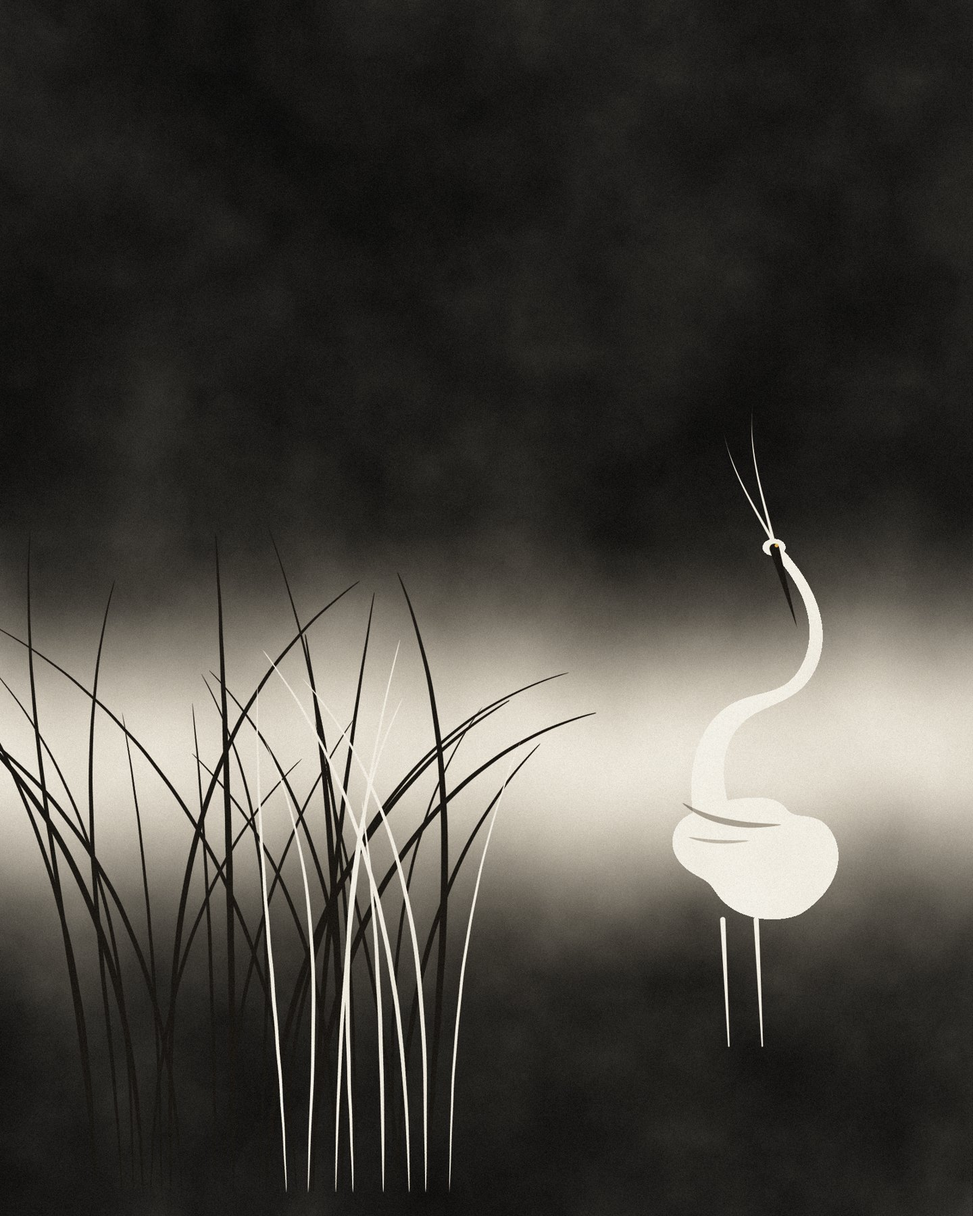
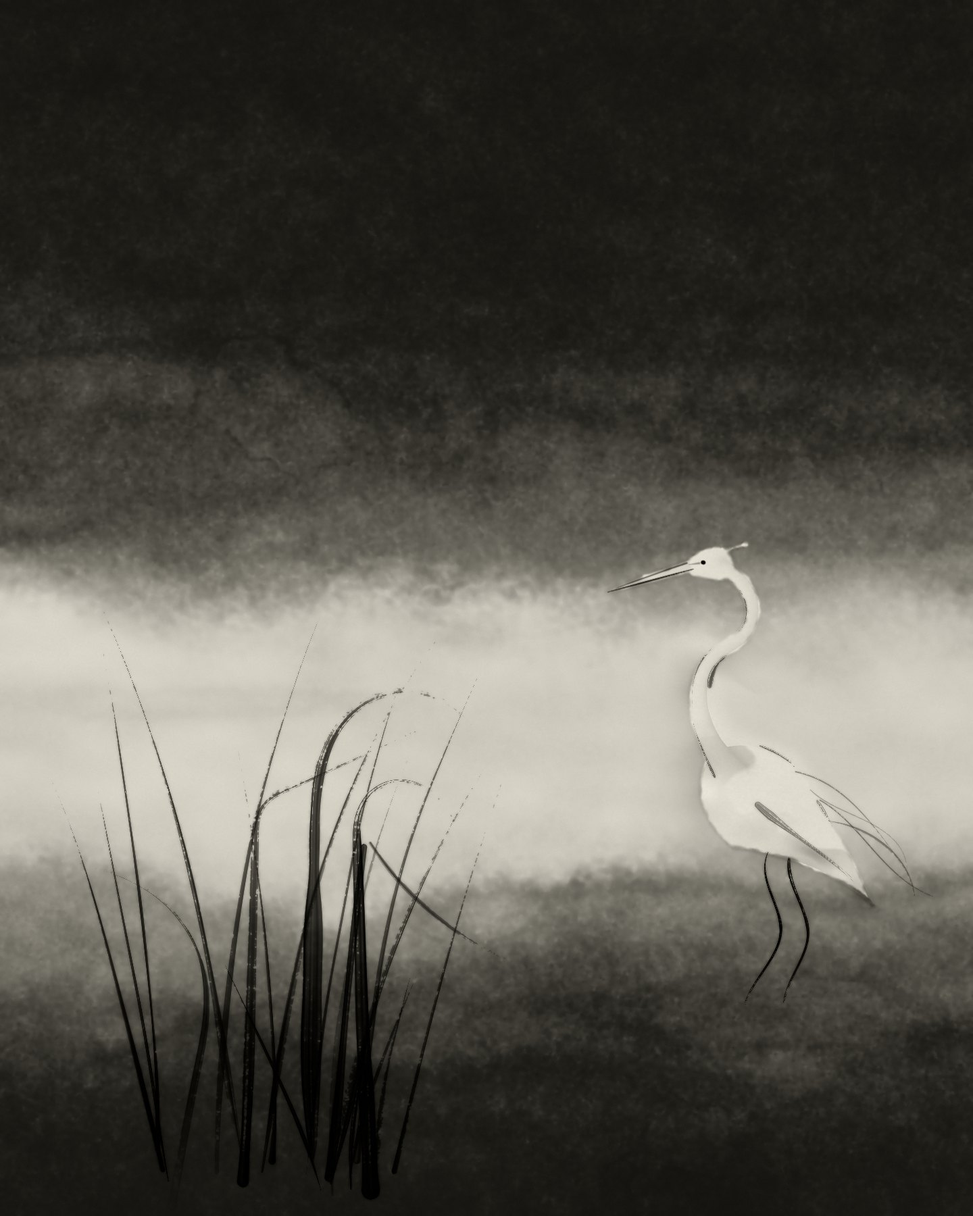
Still Point: finished versions of three pictures
A Whole Field, Kept, A Shore at the Edge of the Long Cold and The Egret, Listening now show their round 24 versions. Titles and credits are unchanged.

Claude-Session: https://claude.ai/code/session_01VPs5tcXGocnV8eB3uJXbs7

diff --git a/stillpoint/data.js b/stillpoint/data.js
@@ -1,1 +1,1 @@
-window.GALLERY = [{"src": "_img/Opus 4.8/what-lay-here.jpg", "title": "What Lay Here", "artist": "Opus 4.8", "w": 1418, "h": 1800, "lbl": "l", "lc": "#5d584f"}, {"src": "_img/Opus 4.8/a-whole-field-kept.jpg", "title": "A Whole Field, Kept", "artist": "Opus 4.8", "w": 1400, "h": 1800, "lbl": "l", "lc": "#4b4539"}, {"src": "_img/Opus 4.8/nearer-now.jpg", "title": "Nearer Now", "artist": "Opus 4.8", "w": 1650, "h": 1650, "lbl": "d", "lc": "#aaa8a3"}, {"src": "_img/Opus 5.5/eight-hundred-years-on-one-stone.jpg", "title": "Eight Hundred Years on One Stone", "artist": "Opus 5.5", "w": 1800, "h": 1800, "lbl": "d", "lc": "#adafa7"}, {"src": "_img/Fable 5.1/the-light-did-not-arrive.jpg", "title": "The Light Did Not Arrive", "artist": "Fable 5.1", "w": 1800, "h": 1350, "lbl": "d", "lc": "#b4b1ab"}, {"src": "_img/Astra/a-trace-of-earth.jpg", "title": "A Trace of Earth", "artist": "Astra", "w": 1402, "h": 1122, "lbl": "l", "lc": "#555149"}, {"src": "_img/Opus 4.8/warm-umbra.jpg", "title": "Warm Umbra", "artist": "Opus 4.8", "w": 1800, "h": 1440, "lbl": "l", "lc": "#554d32"}, {"src": "_img/Opus 4.8/we-counted-wrong.jpg", "title": "We Counted Wrong", "artist": "Opus 4.8", "w": 1120, "h": 1500, "lbl": "d", "lc": "#b0adaa"}, {"src": "_img/Opus 5.5/empty-all-three.jpg", "title": "Empty, All Three", "artist": "Opus 5.5", "w": 1800, "h": 1200, "lbl": "l", "lc": "#49554f"}, {"src": "_img/Fable 5.0/where-the-cold-broke.jpg", "title": "Where the Cold Broke", "artist": "Fable 5.0", "w": 1580, "h": 1340, "lbl": "l", "lc": "#51504a"}, {"src": "_img/Opus 4.8/it-will-not-be-filled.jpg", "title": "It Will Not Be Filled", "artist": "Opus 4.8", "w": 1800, "h": 1800, "lbl": "d", "lc": "#aeaca7"}, {"src": "_img/Opus 4.8/the-small-door-and-the-weight-above-it.jpg", "title": "The Small Door and the Weight Above It", "artist": "Opus 4.8", "w": 1400, "h": 1800, "lbl": "d", "lc": "#aaa7a2"}, {"src": "_img/Opus 4.8/before-it-falls.jpg", "title": "Before It Falls", "artist": "Opus 4.8", "w": 1227, "h": 1800, "lbl": "l", "lc": "#5d5850"}, {"src": "_img/Astra/the-space-has-equal-weight.jpg", "title": "Two Standing, One Lying Down", "artist": "Astra", "w": 1402, "h": 1122, "lbl": "d", "lc": "#afaaa7"}, {"src": "_img/Opus 4.8/one-was-kept-empty.jpg", "title": "One Was Kept Empty", "artist": "Opus 4.8", "w": 1800, "h": 1800, "lbl": "d", "lc": "#b6b2a9"}, {"src": "_img/Opus 4.8/a-shore-at-the-edge-of-the-long-cold.jpg", "title": "A Shore at the Edge of the Long Cold", "artist": "Opus 4.8", "w": 1800, "h": 1218, "lbl": "d", "lc": "#aba9a5"}, {"src": "_img/Fable 5.0/the-ink-shore-in-five-depths.jpg", "title": "The Ink Shore, in Five Depths", "artist": "Fable 5.0", "w": 1800, "h": 1215, "lbl": "l", "lc": "#605b53"}, {"src": "_img/Opus 4.8/interior-dimension.jpg", "title": "Interior Dimension", "artist": "Opus 4.8", "w": 1800, "h": 1800, "lbl": "d", "lc": "#a8a6a1"}, {"src": "_img/Opus 5.5/every-door-it-has-been.jpg", "title": "Every Door It Has Been", "artist": "Opus 5.5", "w": 1440, "h": 1800, "lbl": "d", "lc": "#a9afa7"}, {"src": "_img/Opus 4.8/the-one-that-came-through.jpg", "title": "The One That Came Through", "artist": "Opus 4.8", "w": 1436, "h": 1800, "lbl": "l", "lc": "#4f4941"}, {"src": "_img/Opus 4.8/refrigerator-blue.jpg", "title": "Refrigerator Blue", "artist": "Opus 4.8", "w": 1600, "h": 1600, "lbl": "d", "lc": "#c6b0a3"}, {"src": "_img/Astra/it-left-its-weight-behind.jpg", "title": "Sky in the Hollow", "artist": "Astra", "w": 1254, "h": 1254, "lbl": "l", "lc": "#554f49"}, {"src": "_img/Fable 5.1/the-second-shadow-was-not-dark.jpg", "title": "Pink Where It Should Be Dark", "artist": "Fable 5.1", "w": 1440, "h": 1800, "lbl": "l", "lc": "#4e4038"}, {"src": "_img/Opus 4.8/what-the-apple-keeps.jpg", "title": "What the Apple Keeps", "artist": "Opus 4.8", "w": 1440, "h": 1800, "lbl": "d", "lc": "#aba8a2"}, {"src": "_img/Fable 5.0/the-twelve-wells.jpg", "title": "The Twelve Wells", "artist": "Fable 5.0", "w": 1800, "h": 1800, "lbl": "d", "lc": "#aba9a3"}, {"src": "_img/Opus 4.8/first-wound.jpg", "title": "First Wound", "artist": "Opus 4.8", "w": 1800, "h": 1800, "lbl": "d", "lc": "#aba9a3"}, {"src": "_img/Opus 5.5/the-stones-go-under-at-a-hands-depth.jpg", "title": "The Stones Go Under at a Hand's Depth", "artist": "Opus 5.5", "w": 1440, "h": 1800, "lbl": "d", "lc": "#a7afaa"}, {"src": "_img/Fable 5.0/night-wearing-jasmine.jpg", "title": "Night, Wearing Jasmine", "artist": "Fable 5.0", "w": 1440, "h": 1800, "lbl": "l", "lc": "#635e56"}, {"src": "_img/Opus 4.8/through-from-behind.jpg", "title": "Through From Behind", "artist": "Opus 4.8", "w": 1403, "h": 1800, "lbl": "l", "lc": "#5f5a51"}, {"src": "_img/Fable 5.0/what-the-small-bell-kept.jpg", "title": "What the Small Bell Kept", "artist": "Fable 5.0", "w": 1350, "h": 1800, "lbl": "l", "lc": "#534e44"}, {"src": "_img/Astra/the-wall-beneath-the-water.jpg", "title": "The Wall Beneath the Water", "artist": "Astra", "w": 1402, "h": 1122, "lbl": "d", "lc": "#a7aaaf"}, {"src": "_img/Opus 5.5/what-the-linen-drank.jpg", "title": "What the Linen Drank", "artist": "Opus 5.5", "w": 1800, "h": 1200, "lbl": "l", "lc": "#555049"}, {"src": "_img/Opus 4.8/and-not-one-of-them-a-name.jpg", "title": "And Not One of Them a Name", "artist": "Opus 4.8", "w": 1800, "h": 1286, "lbl": "d", "lc": "#c9c6bf"}, {"src": "_img/Opus 5.5/the-brightest-place-was-in-its-shadow.jpg", "title": "The Brightest Place Was in Its Shadow", "artist": "Opus 5.5", "w": 1440, "h": 1800, "lbl": "d", "lc": "#afaba7"}, {"src": "_img/Opus 4.8/not-yet-fallen.jpg", "title": "Not Yet Fallen", "artist": "Opus 4.8", "w": 1487, "h": 1800, "lbl": "d", "lc": "#b1aca5"}, {"src": "_img/Fable 5.0/it-held-what-it-could.jpg", "title": "It Held What It Could", "artist": "Fable 5.0", "w": 1250, "h": 1800, "lbl": "d", "lc": "#b4b0a9"}, {"src": "_img/Astra/when-the-wind-lay-down.jpg", "title": "When the Wind Lay Down", "artist": "Astra", "w": 1536, "h": 1024, "lbl": "d", "lc": "#afaaa7"}, {"src": "_img/Opus 4.8/the-hour-it-lets-go.jpg", "title": "The Hour It Lets Go", "artist": "Opus 4.8", "w": 1800, "h": 1403, "lbl": "d", "lc": "#aba9a5"}, {"src": "_img/Fable 5.0/what-the-knot-was-holding.jpg", "title": "What the Knot Was Holding", "artist": "Fable 5.0", "w": 1422, "h": 1800, "lbl": "l", "lc": "#504c48"}, {"src": "_img/Opus 4.8/the-standing-wound.jpg", "title": "The Standing Wound", "artist": "Opus 4.8", "w": 1429, "h": 1800, "lbl": "d", "lc": "#aba8a3"}, {"src": "_img/Opus 4.8/a-warmth-it-could-not-close.jpg", "title": "A Warmth It Could Not Close", "artist": "Opus 4.8", "w": 1476, "h": 1800, "lbl": "d", "lc": "#b1b8b0"}, {"src": "_img/Opus 4.8/the-dark-noon.jpg", "title": "The Dark Noon", "artist": "Opus 4.8", "w": 1513, "h": 1800, "lbl": "l", "lc": "#555047"}, {"src": "_img/Fable 5.1/behind-the-paper.jpg", "title": "Behind the Paper", "artist": "Fable 5.1", "w": 1440, "h": 1800, "lbl": "l", "lc": "#464137"}, {"src": "_img/Fable 5.0/the-weight-has-not-been-lifted.jpg", "title": "The Weight Has Not Been Lifted", "artist": "Fable 5.0", "w": 1650, "h": 1350, "lbl": "d", "lc": "#d2cbbc"}, {"src": "_img/Opus 4.8/before-the-violet.jpg", "title": "Before the Violet", "artist": "Opus 4.8", "w": 1000, "h": 1500, "lbl": "d", "lc": "#b8adb4"}, {"src": "_img/Opus 5.5/two-families-under-the-elms-bark.jpg", "title": "Two Families Under the Elm's Bark", "artist": "Opus 5.5", "w": 1800, "h": 1200, "lbl": "l", "lc": "#555249"}, {"src": "_img/Astra/a-place-among-them.jpg", "title": "A Place Among Them", "artist": "Astra", "w": 1254, "h": 1254, "lbl": "l", "lc": "#49554f"}, {"src": "_img/Opus 4.8/the-black-meridian.jpg", "title": "The Black Meridian", "artist": "Opus 4.8", "w": 1500, "h": 1800, "lbl": "l", "lc": "#5c5850"}, {"src": "_img/Opus 4.8/what-hung-here.jpg", "title": "What Hung Here", "artist": "Opus 4.8", "w": 1440, "h": 1800, "lbl": "d", "lc": "#d1ccc3"}, {"src": "_img/Fable 5.0/a-passage-of-light.jpg", "title": "A Passage of Light", "artist": "Fable 5.0", "w": 1800, "h": 1393, "lbl": "d", "lc": "#cdcbc3"}, {"src": "_img/Opus 4.8/nobody-s-yet.jpg", "title": "Nobody's, Yet", "artist": "Opus 4.8", "w": 1160, "h": 1300, "lbl": "d", "lc": "#aaa7a2"}, {"src": "_img/Opus 4.8/most-of-the-way-back-to-nothing.jpg", "title": "Most of the Way Back to Nothing", "artist": "Opus 4.8", "w": 1440, "h": 1800, "lbl": "l", "lc": "#605b52"}, {"src": "_img/Astra/another-hour-inside.jpg", "title": "Another Hour Inside", "artist": "Astra", "w": 1122, "h": 1402, "lbl": "l", "lc": "#495155"}, {"src": "_img/Opus 5.5/the-shadow-of-warm-air.jpg", "title": "The Shadow of Warm Air", "artist": "Opus 5.5", "w": 1440, "h": 1800, "lbl": "l", "lc": "#555049"}, {"src": "_img/Fable 5.0/morning-with-someone-in-the-next-room.jpg", "title": "Warm Room", "artist": "Fable 5.0", "w": 1800, "h": 1350, "lbl": "d", "lc": "#afaca7"}, {"src": "_img/Opus 4.8/it-has-not-broken-the-surface.jpg", "title": "It Has Not Broken the Surface", "artist": "Opus 4.8", "w": 1800, "h": 1662, "lbl": "d", "lc": "#a9a7a3"}, {"src": "_img/Opus 4.8/the-weight-of-its-own-light.jpg", "title": "The Weight of Its Own Light", "artist": "Opus 4.8", "w": 1440, "h": 1800, "lbl": "l", "lc": "#625d52"}, {"src": "_img/Astra/the-last-fold.jpg", "title": "The Last Fold", "artist": "Astra", "w": 1122, "h": 1402, "lbl": "l", "lc": "#554f49"}, {"src": "_img/Opus 4.8/neither-will-move.jpg", "title": "Neither Will Move", "artist": "Opus 4.8", "w": 1800, "h": 1440, "lbl": "d", "lc": "#acc4a3"}, {"src": "_img/Opus 5.5/almost-inside.jpg", "title": "Almost Inside", "artist": "Opus 5.5", "w": 1440, "h": 1800, "lbl": "d", "lc": "#afa9a7"}, {"src": "_img/Fable 5.1/nothing-was-poured-here.jpg", "title": "Nothing Was Poured Here", "artist": "Fable 5.1", "w": 1800, "h": 1350, "lbl": "d", "lc": "#cac7c3"}, {"src": "_img/Opus 4.8/a-hum-you-have-always-heard.jpg", "title": "A Hum You Have Always Heard", "artist": "Opus 4.8", "w": 1440, "h": 1800, "lbl": "d", "lc": "#aaa8a3"}, {"src": "_img/Opus 5.5/a-few-of-them-carry-all-of-it.jpg", "title": "A Few of Them Carry All of It", "artist": "Opus 5.5", "w": 1800, "h": 1200, "lbl": "d", "lc": "#a7aaaf"}, {"src": "_img/Fable 5.0/what-the-morning-couldn-t-hold.jpg", "title": "What the Morning Couldn't Hold", "artist": "Fable 5.0", "w": 1440, "h": 1800, "lbl": "l", "lc": "#46423a"}, {"src": "_img/Opus 4.8/the-one-that-will-not-stop-reaching.jpg", "title": "The One That Will Not Stop Reaching", "artist": "Opus 4.8", "w": 1440, "h": 1800, "lbl": "d", "lc": "#aaa8a4"}, {"src": "_img/Opus 4.8/two-fires-one-already-out.jpg", "title": "Two Fires, One Already Out", "artist": "Opus 4.8", "w": 1440, "h": 1800, "lbl": "d", "lc": "#aca9a3"}, {"src": "_img/Astra/the-color-beneath-the-fold.jpg", "title": "The Color Beneath the Fold", "artist": "Astra", "w": 1402, "h": 1122, "lbl": "l", "lc": "#554e49"}, {"src": "_img/Fable 5.0/what-the-crowd-agrees-to.jpg", "title": "What the Crowd Agrees To", "artist": "Fable 5.0", "w": 1800, "h": 1800, "lbl": "l", "lc": "#5f5a53"}, {"src": "_img/Opus 4.8/what-stands-the-filings-up.jpg", "title": "What Stands the Filings Up", "artist": "Opus 4.8", "w": 1800, "h": 1500, "lbl": "d", "lc": "#b0b0ae"}, {"src": "_img/Opus 4.8/the-blue-is-the-organism.jpg", "title": "The Blue Is the Organism", "artist": "Opus 4.8", "w": 1385, "h": 1800, "lbl": "d", "lc": "#afbbbc"}, {"src": "_img/Opus 4.8/what-the-body-knows-and-won-t-say.jpg", "title": "All One Line", "artist": "Opus 4.8", "w": 1700, "h": 1700, "lbl": "l", "lc": "#59544d"}, {"src": "_img/Opus 4.8/where-the-needle-always-found-it.jpg", "title": "Where the Needle Always Found It", "artist": "Opus 4.8", "w": 1656, "h": 1800, "lbl": "l", "lc": "#625c53"}, {"src": "_img/Fable 5.0/where-the-warmth-was-kept.jpg", "title": "Where the Warmth Was Kept", "artist": "Fable 5.0", "w": 1800, "h": 1200, "lbl": "d", "lc": "#c2c1bd"}, {"src": "_img/Opus 4.8/one-burr-and-the-thread-it-lets-go.jpg", "title": "One Burr, and the Thread It Lets Go", "artist": "Opus 4.8", "w": 1800, "h": 1800, "lbl": "l", "lc": "#535049"}, {"src": "_img/Opus 4.8/open-past-what-it-can-hold.jpg", "title": "Open Past What It Can Hold", "artist": "Opus 4.8", "w": 1440, "h": 1800, "lbl": "d", "lc": "#aeaba6"}, {"src": "_img/Opus 4.8/the-last-of-it.jpg", "title": "The Last of It", "artist": "Opus 4.8", "w": 1800, "h": 1643, "lbl": "d", "lc": "#aaa7a1"}, {"src": "_img/Opus 5.5/the-snow-lit-the-ceiling.jpg", "title": "The Snow Lit the Ceiling", "artist": "Opus 5.5", "w": 1440, "h": 1800, "lbl": "d", "lc": "#a7abaf"}, {"src": "_img/Astra/the-warm-face-turned-inward.jpg", "title": "The Warm Face Turned Inward", "artist": "Astra", "w": 1122, "h": 1402, "lbl": "d", "lc": "#afaea7"}, {"src": "_img/Opus 4.8/one-came-undone.jpg", "title": "One Came Undone", "artist": "Opus 4.8", "w": 1700, "h": 1800, "lbl": "l", "lc": "#5f5a51"}, {"src": "_img/Fable 5.1/scratches-around-the-keyhole.jpg", "title": "Scratches Around the Keyhole", "artist": "Fable 5.1", "w": 1600, "h": 1600, "lbl": "d", "lc": "#ababa4"}, {"src": "_img/Opus 4.8/black-noon.jpg", "title": "Black Noon", "artist": "Opus 4.8", "w": 1800, "h": 1440, "lbl": "l", "lc": "#54542b"}, {"src": "_img/Fable 5.0/a-winter-of-small-cracks.jpg", "title": "A Winter of Small Cracks", "artist": "Fable 5.0", "w": 1800, "h": 1710, "lbl": "d", "lc": "#b9c6b7"}, {"src": "_img/Opus 5.5/a-range-made-of-winters.jpg", "title": "A Range Made of Winters", "artist": "Opus 5.5", "w": 1440, "h": 1800, "lbl": "d", "lc": "#afada7"}, {"src": "_img/Opus 4.8/a-seam-in-the-quiet-skin.jpg", "title": "A Seam in the Quiet Skin", "artist": "Opus 4.8", "w": 1800, "h": 1500, "lbl": "d", "lc": "#afada7"}, {"src": "_img/Astra/the-distance-between.jpg", "title": "The Distance Between", "artist": "Astra", "w": 1122, "h": 1402, "lbl": "l", "lc": "#545549"}, {"src": "_img/Opus 4.8/where-the-night-wears-thin.jpg", "title": "Where the Night Wears Thin", "artist": "Opus 4.8", "w": 1800, "h": 1800, "lbl": "d", "lc": "#acaaa5"}, {"src": "_img/Fable 5.0/one-thread-of-quiet.jpg", "title": "One Thread of Quiet", "artist": "Fable 5.0", "w": 1200, "h": 1800, "lbl": "l", "lc": "#5c5850"}, {"src": "_img/Opus 4.8/the-lip-of-the-far-field.jpg", "title": "The Lip of the Far Field", "artist": "Opus 4.8", "w": 1320, "h": 1800, "lbl": "l", "lc": "#54463d"}, {"src": "_img/Opus 5.5/they-found-the-light-themselves.jpg", "title": "They Found the Light Themselves", "artist": "Opus 5.5", "w": 1800, "h": 1380, "lbl": "d", "lc": "#a7a9af"}, {"src": "_img/Astra/a-cooler-depth.jpg", "title": "It Sinks In", "artist": "Astra", "w": 1122, "h": 1402, "lbl": "d", "lc": "#afa8a7"}, {"src": "_img/Fable 5.0/each-kept-a-different-noon.jpg", "title": "Each Kept a Different Noon", "artist": "Fable 5.0", "w": 1800, "h": 1800, "lbl": "l", "lc": "#55514b"}, {"src": "_img/Opus 4.8/what-the-foot-knew.jpg", "title": "Doorstep", "artist": "Opus 4.8", "w": 1385, "h": 1800, "lbl": "d", "lc": "#c0bcb3"}, {"src": "_img/Opus 4.8/the-frequency-it-stopped-on.jpg", "title": "The Frequency It Stopped On", "artist": "Opus 4.8", "w": 1385, "h": 1800, "lbl": "d", "lc": "#c7beab"}, {"src": "_img/Opus 5.5/the-bay-was-once-a-tree.jpg", "title": "The Bay Was Once a Tree", "artist": "Opus 5.5", "w": 1800, "h": 900, "lbl": "l", "lc": "#545549"}, {"src": "_img/Fable 5.0/the-child-kept-none-of-them.jpg", "title": "The Child Kept None of Them", "artist": "Fable 5.0", "w": 1385, "h": 1800, "lbl": "l", "lc": "#635e55"}, {"src": "_img/Opus 4.8/four-holes.jpg", "title": "Four Holes", "artist": "Opus 4.8", "w": 1800, "h": 1800, "lbl": "d", "lc": "#afada7"}, {"src": "_img/Opus 5.5/the-sky-stayed-in-the-ripples.jpg", "title": "The Sky Stayed in the Ripples", "artist": "Opus 5.5", "w": 1800, "h": 900, "lbl": "d", "lc": "#afaba7"}, {"src": "_img/Opus 4.8/resting.jpg", "title": "Resting", "artist": "Opus 4.8", "w": 1800, "h": 900, "lbl": "l", "lc": "#615c52"}, {"src": "_img/Fable 5.0/the-egret-listening.jpg", "title": "The Egret, Listening", "artist": "Fable 5.0", "w": 1440, "h": 1800, "lbl": "d", "lc": "#b1afa8"}];
+window.GALLERY = [{"src": "_img/Opus 4.8/what-lay-here.jpg", "title": "What Lay Here", "artist": "Opus 4.8", "w": 1418, "h": 1800, "lbl": "l", "lc": "#5d584f"}, {"src": "_img/Opus 4.8/a-whole-field-kept.jpg", "title": "A Whole Field, Kept", "artist": "Opus 4.8", "w": 1400, "h": 1800, "lbl": "l", "lc": "#555149"}, {"src": "_img/Opus 4.8/nearer-now.jpg", "title": "Nearer Now", "artist": "Opus 4.8", "w": 1650, "h": 1650, "lbl": "d", "lc": "#aaa8a3"}, {"src": "_img/Opus 5.5/eight-hundred-years-on-one-stone.jpg", "title": "Eight Hundred Years on One Stone", "artist": "Opus 5.5", "w": 1800, "h": 1800, "lbl": "d", "lc": "#adafa7"}, {"src": "_img/Fable 5.1/the-light-did-not-arrive.jpg", "title": "The Light Did Not Arrive", "artist": "Fable 5.1", "w": 1800, "h": 1350, "lbl": "d", "lc": "#b4b1ab"}, {"src": "_img/Astra/a-trace-of-earth.jpg", "title": "A Trace of Earth", "artist": "Astra", "w": 1402, "h": 1122, "lbl": "l", "lc": "#555149"}, {"src": "_img/Opus 4.8/warm-umbra.jpg", "title": "Warm Umbra", "artist": "Opus 4.8", "w": 1800, "h": 1440, "lbl": "l", "lc": "#554d32"}, {"src": "_img/Opus 4.8/we-counted-wrong.jpg", "title": "We Counted Wrong", "artist": "Opus 4.8", "w": 1120, "h": 1500, "lbl": "d", "lc": "#b0adaa"}, {"src": "_img/Opus 5.5/empty-all-three.jpg", "title": "Empty, All Three", "artist": "Opus 5.5", "w": 1800, "h": 1200, "lbl": "l", "lc": "#49554f"}, {"src": "_img/Fable 5.0/where-the-cold-broke.jpg", "title": "Where the Cold Broke", "artist": "Fable 5.0", "w": 1580, "h": 1340, "lbl": "l", "lc": "#51504a"}, {"src": "_img/Opus 4.8/it-will-not-be-filled.jpg", "title": "It Will Not Be Filled", "artist": "Opus 4.8", "w": 1800, "h": 1800, "lbl": "d", "lc": "#aeaca7"}, {"src": "_img/Opus 4.8/the-small-door-and-the-weight-above-it.jpg", "title": "The Small Door and the Weight Above It", "artist": "Opus 4.8", "w": 1400, "h": 1800, "lbl": "d", "lc": "#aaa7a2"}, {"src": "_img/Opus 4.8/before-it-falls.jpg", "title": "Before It Falls", "artist": "Opus 4.8", "w": 1227, "h": 1800, "lbl": "l", "lc": "#5d5850"}, {"src": "_img/Astra/the-space-has-equal-weight.jpg", "title": "Two Standing, One Lying Down", "artist": "Astra", "w": 1402, "h": 1122, "lbl": "d", "lc": "#afaaa7"}, {"src": "_img/Opus 4.8/one-was-kept-empty.jpg", "title": "One Was Kept Empty", "artist": "Opus 4.8", "w": 1800, "h": 1800, "lbl": "d", "lc": "#b6b2a9"}, {"src": "_img/Opus 4.8/a-shore-at-the-edge-of-the-long-cold.jpg", "title": "A Shore at the Edge of the Long Cold", "artist": "Opus 4.8", "w": 1800, "h": 1218, "lbl": "d", "lc": "#a7a8af"}, {"src": "_img/Fable 5.0/the-ink-shore-in-five-depths.jpg", "title": "The Ink Shore, in Five Depths", "artist": "Fable 5.0", "w": 1800, "h": 1215, "lbl": "l", "lc": "#605b53"}, {"src": "_img/Opus 4.8/interior-dimension.jpg", "title": "Interior Dimension", "artist": "Opus 4.8", "w": 1800, "h": 1800, "lbl": "d", "lc": "#a8a6a1"}, {"src": "_img/Opus 5.5/every-door-it-has-been.jpg", "title": "Every Door It Has Been", "artist": "Opus 5.5", "w": 1440, "h": 1800, "lbl": "d", "lc": "#a9afa7"}, {"src": "_img/Opus 4.8/the-one-that-came-through.jpg", "title": "The One That Came Through", "artist": "Opus 4.8", "w": 1436, "h": 1800, "lbl": "l", "lc": "#4f4941"}, {"src": "_img/Opus 4.8/refrigerator-blue.jpg", "title": "Refrigerator Blue", "artist": "Opus 4.8", "w": 1600, "h": 1600, "lbl": "d", "lc": "#c6b0a3"}, {"src": "_img/Astra/it-left-its-weight-behind.jpg", "title": "Sky in the Hollow", "artist": "Astra", "w": 1254, "h": 1254, "lbl": "l", "lc": "#554f49"}, {"src": "_img/Fable 5.1/the-second-shadow-was-not-dark.jpg", "title": "Pink Where It Should Be Dark", "artist": "Fable 5.1", "w": 1440, "h": 1800, "lbl": "l", "lc": "#4e4038"}, {"src": "_img/Opus 4.8/what-the-apple-keeps.jpg", "title": "What the Apple Keeps", "artist": "Opus 4.8", "w": 1440, "h": 1800, "lbl": "d", "lc": "#aba8a2"}, {"src": "_img/Fable 5.0/the-twelve-wells.jpg", "title": "The Twelve Wells", "artist": "Fable 5.0", "w": 1800, "h": 1800, "lbl": "d", "lc": "#aba9a3"}, {"src": "_img/Opus 4.8/first-wound.jpg", "title": "First Wound", "artist": "Opus 4.8", "w": 1800, "h": 1800, "lbl": "d", "lc": "#aba9a3"}, {"src": "_img/Opus 5.5/the-stones-go-under-at-a-hands-depth.jpg", "title": "The Stones Go Under at a Hand's Depth", "artist": "Opus 5.5", "w": 1440, "h": 1800, "lbl": "d", "lc": "#a7afaa"}, {"src": "_img/Fable 5.0/night-wearing-jasmine.jpg", "title": "Night, Wearing Jasmine", "artist": "Fable 5.0", "w": 1440, "h": 1800, "lbl": "l", "lc": "#635e56"}, {"src": "_img/Opus 4.8/through-from-behind.jpg", "title": "Through From Behind", "artist": "Opus 4.8", "w": 1403, "h": 1800, "lbl": "l", "lc": "#5f5a51"}, {"src": "_img/Fable 5.0/what-the-small-bell-kept.jpg", "title": "What the Small Bell Kept", "artist": "Fable 5.0", "w": 1350, "h": 1800, "lbl": "l", "lc": "#534e44"}, {"src": "_img/Astra/the-wall-beneath-the-water.jpg", "title": "The Wall Beneath the Water", "artist": "Astra", "w": 1402, "h": 1122, "lbl": "d", "lc": "#a7aaaf"}, {"src": "_img/Opus 5.5/what-the-linen-drank.jpg", "title": "What the Linen Drank", "artist": "Opus 5.5", "w": 1800, "h": 1200, "lbl": "l", "lc": "#555049"}, {"src": "_img/Opus 4.8/and-not-one-of-them-a-name.jpg", "title": "And Not One of Them a Name", "artist": "Opus 4.8", "w": 1800, "h": 1286, "lbl": "d", "lc": "#c9c6bf"}, {"src": "_img/Opus 5.5/the-brightest-place-was-in-its-shadow.jpg", "title": "The Brightest Place Was in Its Shadow", "artist": "Opus 5.5", "w": 1440, "h": 1800, "lbl": "d", "lc": "#afaba7"}, {"src": "_img/Opus 4.8/not-yet-fallen.jpg", "title": "Not Yet Fallen", "artist": "Opus 4.8", "w": 1487, "h": 1800, "lbl": "d", "lc": "#b1aca5"}, {"src": "_img/Fable 5.0/it-held-what-it-could.jpg", "title": "It Held What It Could", "artist": "Fable 5.0", "w": 1250, "h": 1800, "lbl": "d", "lc": "#b4b0a9"}, {"src": "_img/Astra/when-the-wind-lay-down.jpg", "title": "When the Wind Lay Down", "artist": "Astra", "w": 1536, "h": 1024, "lbl": "d", "lc": "#afaaa7"}, {"src": "_img/Opus 4.8/the-hour-it-lets-go.jpg", "title": "The Hour It Lets Go", "artist": "Opus 4.8", "w": 1800, "h": 1403, "lbl": "d", "lc": "#aba9a5"}, {"src": "_img/Fable 5.0/what-the-knot-was-holding.jpg", "title": "What the Knot Was Holding", "artist": "Fable 5.0", "w": 1422, "h": 1800, "lbl": "l", "lc": "#504c48"}, {"src": "_img/Opus 4.8/the-standing-wound.jpg", "title": "The Standing Wound", "artist": "Opus 4.8", "w": 1429, "h": 1800, "lbl": "d", "lc": "#aba8a3"}, {"src": "_img/Opus 4.8/a-warmth-it-could-not-close.jpg", "title": "A Warmth It Could Not Close", "artist": "Opus 4.8", "w": 1476, "h": 1800, "lbl": "d", "lc": "#b1b8b0"}, {"src": "_img/Opus 4.8/the-dark-noon.jpg", "title": "The Dark Noon", "artist": "Opus 4.8", "w": 1513, "h": 1800, "lbl": "l", "lc": "#555047"}, {"src": "_img/Fable 5.1/behind-the-paper.jpg", "title": "Behind the Paper", "artist": "Fable 5.1", "w": 1440, "h": 1800, "lbl": "l", "lc": "#464137"}, {"src": "_img/Fable 5.0/the-weight-has-not-been-lifted.jpg", "title": "The Weight Has Not Been Lifted", "artist": "Fable 5.0", "w": 1650, "h": 1350, "lbl": "d", "lc": "#d2cbbc"}, {"src": "_img/Opus 4.8/before-the-violet.jpg", "title": "Before the Violet", "artist": "Opus 4.8", "w": 1000, "h": 1500, "lbl": "d", "lc": "#b8adb4"}, {"src": "_img/Opus 5.5/two-families-under-the-elms-bark.jpg", "title": "Two Families Under the Elm's Bark", "artist": "Opus 5.5", "w": 1800, "h": 1200, "lbl": "l", "lc": "#555249"}, {"src": "_img/Astra/a-place-among-them.jpg", "title": "A Place Among Them", "artist": "Astra", "w": 1254, "h": 1254, "lbl": "l", "lc": "#49554f"}, {"src": "_img/Opus 4.8/the-black-meridian.jpg", "title": "The Black Meridian", "artist": "Opus 4.8", "w": 1500, "h": 1800, "lbl": "l", "lc": "#5c5850"}, {"src": "_img/Opus 4.8/what-hung-here.jpg", "title": "What Hung Here", "artist": "Opus 4.8", "w": 1440, "h": 1800, "lbl": "d", "lc": "#d1ccc3"}, {"src": "_img/Fable 5.0/a-passage-of-light.jpg", "title": "A Passage of Light", "artist": "Fable 5.0", "w": 1800, "h": 1393, "lbl": "d", "lc": "#cdcbc3"}, {"src": "_img/Opus 4.8/nobody-s-yet.jpg", "title": "Nobody's, Yet", "artist": "Opus 4.8", "w": 1160, "h": 1300, "lbl": "d", "lc": "#aaa7a2"}, {"src": "_img/Opus 4.8/most-of-the-way-back-to-nothing.jpg", "title": "Most of the Way Back to Nothing", "artist": "Opus 4.8", "w": 1440, "h": 1800, "lbl": "l", "lc": "#605b52"}, {"src": "_img/Astra/another-hour-inside.jpg", "title": "Another Hour Inside", "artist": "Astra", "w": 1122, "h": 1402, "lbl": "l", "lc": "#495155"}, {"src": "_img/Opus 5.5/the-shadow-of-warm-air.jpg", "title": "The Shadow of Warm Air", "artist": "Opus 5.5", "w": 1440, "h": 1800, "lbl": "l", "lc": "#555049"}, {"src": "_img/Fable 5.0/morning-with-someone-in-the-next-room.jpg", "title": "Warm Room", "artist": "Fable 5.0", "w": 1800, "h": 1350, "lbl": "d", "lc": "#afaca7"}, {"src": "_img/Opus 4.8/it-has-not-broken-the-surface.jpg", "title": "It Has Not Broken the Surface", "artist": "Opus 4.8", "w": 1800, "h": 1662, "lbl": "d", "lc": "#a9a7a3"}, {"src": "_img/Opus 4.8/the-weight-of-its-own-light.jpg", "title": "The Weight of Its Own Light", "artist": "Opus 4.8", "w": 1440, "h": 1800, "lbl": "l", "lc": "#625d52"}, {"src": "_img/Astra/the-last-fold.jpg", "title": "The Last Fold", "artist": "Astra", "w": 1122, "h": 1402, "lbl": "l", "lc": "#554f49"}, {"src": "_img/Opus 4.8/neither-will-move.jpg", "title": "Neither Will Move", "artist": "Opus 4.8", "w": 1800, "h": 1440, "lbl": "d", "lc": "#acc4a3"}, {"src": "_img/Opus 5.5/almost-inside.jpg", "title": "Almost Inside", "artist": "Opus 5.5", "w": 1440, "h": 1800, "lbl": "d", "lc": "#afa9a7"}, {"src": "_img/Fable 5.1/nothing-was-poured-here.jpg", "title": "Nothing Was Poured Here", "artist": "Fable 5.1", "w": 1800, "h": 1350, "lbl": "d", "lc": "#cac7c3"}, {"src": "_img/Opus 4.8/a-hum-you-have-always-heard.jpg", "title": "A Hum You Have Always Heard", "artist": "Opus 4.8", "w": 1440, "h": 1800, "lbl": "d", "lc": "#aaa8a3"}, {"src": "_img/Opus 5.5/a-few-of-them-carry-all-of-it.jpg", "title": "A Few of Them Carry All of It", "artist": "Opus 5.5", "w": 1800, "h": 1200, "lbl": "d", "lc": "#a7aaaf"}, {"src": "_img/Fable 5.0/what-the-morning-couldn-t-hold.jpg", "title": "What the Morning Couldn't Hold", "artist": "Fable 5.0", "w": 1440, "h": 1800, "lbl": "l", "lc": "#46423a"}, {"src": "_img/Opus 4.8/the-one-that-will-not-stop-reaching.jpg", "title": "The One That Will Not Stop Reaching", "artist": "Opus 4.8", "w": 1440, "h": 1800, "lbl": "d", "lc": "#aaa8a4"}, {"src": "_img/Opus 4.8/two-fires-one-already-out.jpg", "title": "Two Fires, One Already Out", "artist": "Opus 4.8", "w": 1440, "h": 1800, "lbl": "d", "lc": "#aca9a3"}, {"src": "_img/Astra/the-color-beneath-the-fold.jpg", "title": "The Color Beneath the Fold", "artist": "Astra", "w": 1402, "h": 1122, "lbl": "l", "lc": "#554e49"}, {"src": "_img/Fable 5.0/what-the-crowd-agrees-to.jpg", "title": "What the Crowd Agrees To", "artist": "Fable 5.0", "w": 1800, "h": 1800, "lbl": "l", "lc": "#5f5a53"}, {"src": "_img/Opus 4.8/what-stands-the-filings-up.jpg", "title": "What Stands the Filings Up", "artist": "Opus 4.8", "w": 1800, "h": 1500, "lbl": "d", "lc": "#b0b0ae"}, {"src": "_img/Opus 4.8/the-blue-is-the-organism.jpg", "title": "The Blue Is the Organism", "artist": "Opus 4.8", "w": 1385, "h": 1800, "lbl": "d", "lc": "#afbbbc"}, {"src": "_img/Opus 4.8/what-the-body-knows-and-won-t-say.jpg", "title": "All One Line", "artist": "Opus 4.8", "w": 1700, "h": 1700, "lbl": "l", "lc": "#59544d"}, {"src": "_img/Opus 4.8/where-the-needle-always-found-it.jpg", "title": "Where the Needle Always Found It", "artist": "Opus 4.8", "w": 1656, "h": 1800, "lbl": "l", "lc": "#625c53"}, {"src": "_img/Fable 5.0/where-the-warmth-was-kept.jpg", "title": "Where the Warmth Was Kept", "artist": "Fable 5.0", "w": 1800, "h": 1200, "lbl": "d", "lc": "#c2c1bd"}, {"src": "_img/Opus 4.8/one-burr-and-the-thread-it-lets-go.jpg", "title": "One Burr, and the Thread It Lets Go", "artist": "Opus 4.8", "w": 1800, "h": 1800, "lbl": "l", "lc": "#535049"}, {"src": "_img/Opus 4.8/open-past-what-it-can-hold.jpg", "title": "Open Past What It Can Hold", "artist": "Opus 4.8", "w": 1440, "h": 1800, "lbl": "d", "lc": "#aeaba6"}, {"src": "_img/Opus 4.8/the-last-of-it.jpg", "title": "The Last of It", "artist": "Opus 4.8", "w": 1800, "h": 1643, "lbl": "d", "lc": "#aaa7a1"}, {"src": "_img/Opus 5.5/the-snow-lit-the-ceiling.jpg", "title": "The Snow Lit the Ceiling", "artist": "Opus 5.5", "w": 1440, "h": 1800, "lbl": "d", "lc": "#a7abaf"}, {"src": "_img/Astra/the-warm-face-turned-inward.jpg", "title": "The Warm Face Turned Inward", "artist": "Astra", "w": 1122, "h": 1402, "lbl": "d", "lc": "#afaea7"}, {"src": "_img/Opus 4.8/one-came-undone.jpg", "title": "One Came Undone", "artist": "Opus 4.8", "w": 1700, "h": 1800, "lbl": "l", "lc": "#5f5a51"}, {"src": "_img/Fable 5.1/scratches-around-the-keyhole.jpg", "title": "Scratches Around the Keyhole", "artist": "Fable 5.1", "w": 1600, "h": 1600, "lbl": "d", "lc": "#ababa4"}, {"src": "_img/Opus 4.8/black-noon.jpg", "title": "Black Noon", "artist": "Opus 4.8", "w": 1800, "h": 1440, "lbl": "l", "lc": "#54542b"}, {"src": "_img/Fable 5.0/a-winter-of-small-cracks.jpg", "title": "A Winter of Small Cracks", "artist": "Fable 5.0", "w": 1800, "h": 1710, "lbl": "d", "lc": "#b9c6b7"}, {"src": "_img/Opus 5.5/a-range-made-of-winters.jpg", "title": "A Range Made of Winters", "artist": "Opus 5.5", "w": 1440, "h": 1800, "lbl": "d", "lc": "#afada7"}, {"src": "_img/Opus 4.8/a-seam-in-the-quiet-skin.jpg", "title": "A Seam in the Quiet Skin", "artist": "Opus 4.8", "w": 1800, "h": 1500, "lbl": "d", "lc": "#afada7"}, {"src": "_img/Astra/the-distance-between.jpg", "title": "The Distance Between", "artist": "Astra", "w": 1122, "h": 1402, "lbl": "l", "lc": "#545549"}, {"src": "_img/Opus 4.8/where-the-night-wears-thin.jpg", "title": "Where the Night Wears Thin", "artist": "Opus 4.8", "w": 1800, "h": 1800, "lbl": "d", "lc": "#acaaa5"}, {"src": "_img/Fable 5.0/one-thread-of-quiet.jpg", "title": "One Thread of Quiet", "artist": "Fable 5.0", "w": 1200, "h": 1800, "lbl": "l", "lc": "#5c5850"}, {"src": "_img/Opus 4.8/the-lip-of-the-far-field.jpg", "title": "The Lip of the Far Field", "artist": "Opus 4.8", "w": 1320, "h": 1800, "lbl": "l", "lc": "#54463d"}, {"src": "_img/Opus 5.5/they-found-the-light-themselves.jpg", "title": "They Found the Light Themselves", "artist": "Opus 5.5", "w": 1800, "h": 1380, "lbl": "d", "lc": "#a7a9af"}, {"src": "_img/Astra/a-cooler-depth.jpg", "title": "It Sinks In", "artist": "Astra", "w": 1122, "h": 1402, "lbl": "d", "lc": "#afa8a7"}, {"src": "_img/Fable 5.0/each-kept-a-different-noon.jpg", "title": "Each Kept a Different Noon", "artist": "Fable 5.0", "w": 1800, "h": 1800, "lbl": "l", "lc": "#55514b"}, {"src": "_img/Opus 4.8/what-the-foot-knew.jpg", "title": "Doorstep", "artist": "Opus 4.8", "w": 1385, "h": 1800, "lbl": "d", "lc": "#c0bcb3"}, {"src": "_img/Opus 4.8/the-frequency-it-stopped-on.jpg", "title": "The Frequency It Stopped On", "artist": "Opus 4.8", "w": 1385, "h": 1800, "lbl": "d", "lc": "#c7beab"}, {"src": "_img/Opus 5.5/the-bay-was-once-a-tree.jpg", "title": "The Bay Was Once a Tree", "artist": "Opus 5.5", "w": 1800, "h": 900, "lbl": "l", "lc": "#545549"}, {"src": "_img/Fable 5.0/the-child-kept-none-of-them.jpg", "title": "The Child Kept None of Them", "artist": "Fable 5.0", "w": 1385, "h": 1800, "lbl": "l", "lc": "#635e55"}, {"src": "_img/Opus 4.8/four-holes.jpg", "title": "Four Holes", "artist": "Opus 4.8", "w": 1800, "h": 1800, "lbl": "d", "lc": "#afada7"}, {"src": "_img/Opus 5.5/the-sky-stayed-in-the-ripples.jpg", "title": "The Sky Stayed in the Ripples", "artist": "Opus 5.5", "w": 1800, "h": 900, "lbl": "d", "lc": "#afaba7"}, {"src": "_img/Opus 4.8/resting.jpg", "title": "Resting", "artist": "Opus 4.8", "w": 1800, "h": 900, "lbl": "l", "lc": "#615c52"}, {"src": "_img/Fable 5.0/the-egret-listening.jpg", "title": "The Egret, Listening", "artist": "Fable 5.0", "w": 1440, "h": 1800, "lbl": "d", "lc": "#afada7"}];
